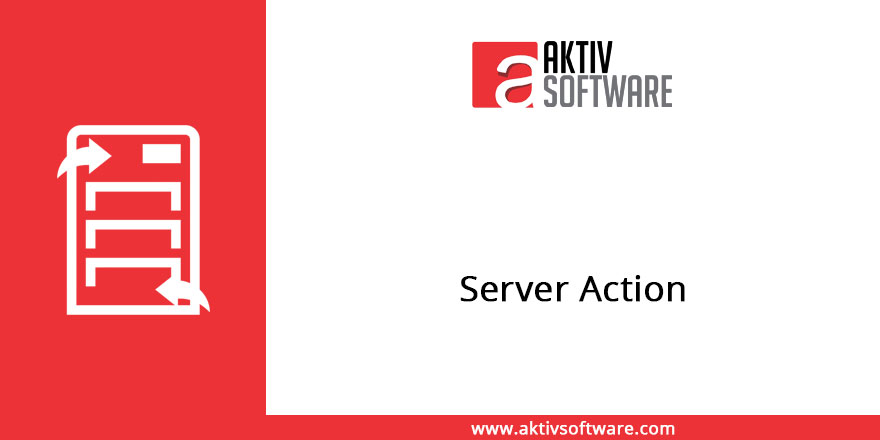
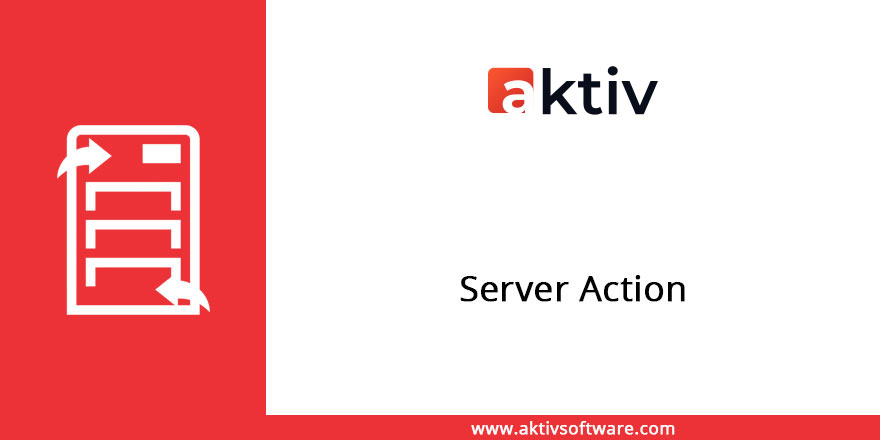
[ADD] change image in 9.0

Changed region(s): [[0.5216, 0.0886, 0.767, 0.2659]]

diff --git a/server_action/static/description/index.html b/server_action/static/description/index.html
@@ -81,7 +81,7 @@
     <div class="oe_row oe_spaced">
         <h2 class="oe_slogan">
             <a href="http://aktivsoftware.com/" target="new">
-                <img src="http://aktivsoftware.com/wp-content/uploads/2018/01/logo-1.png"/>
+                <img src="aktiv-logo.png"/>
             </a>
             <br/>
             <a href="mailto:sales@aktivsoftware.com" style="color: #000000 !important;">
